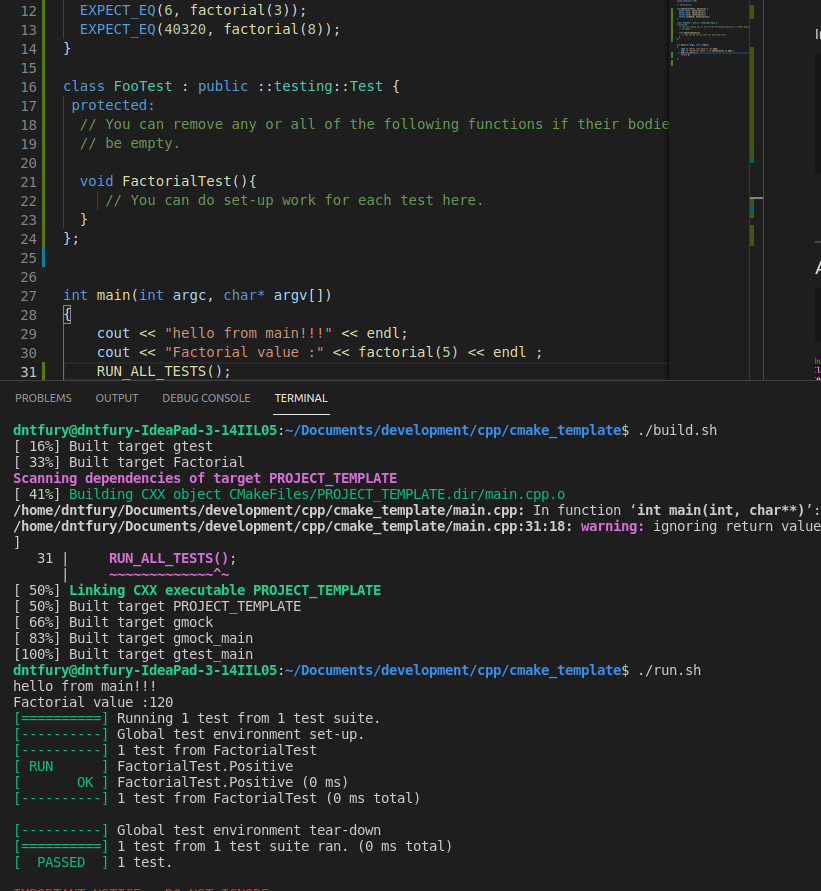
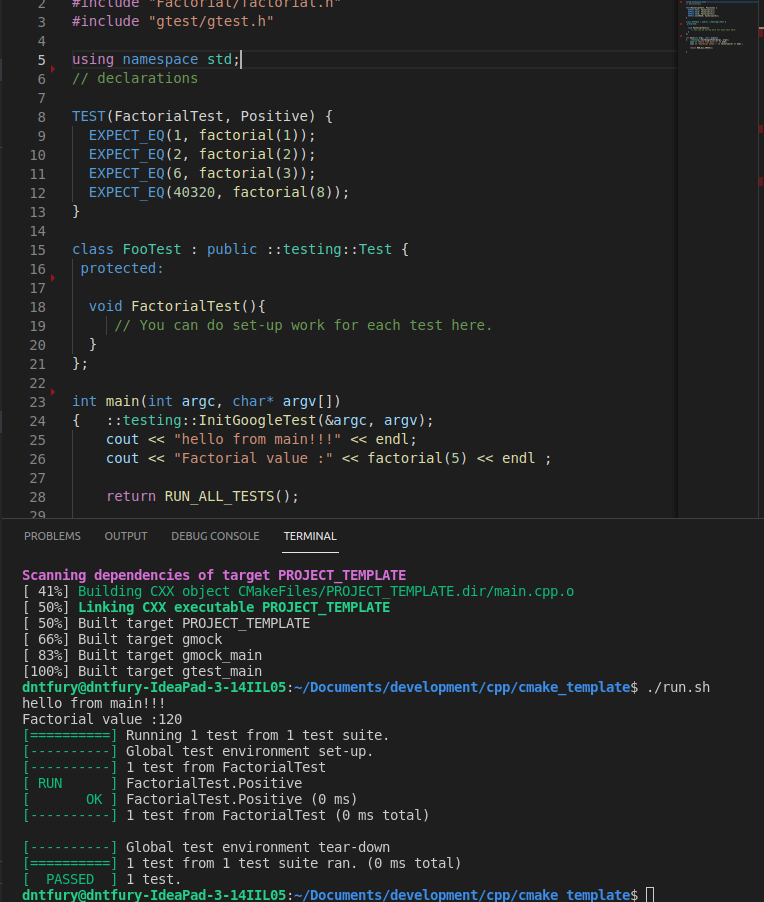
Updated README
Updated image SC5

diff --git a/main.cpp b/main.cpp
@@ -15,15 +15,12 @@ TEST(FactorialTest, Positive) {
 
 class FooTest : public ::testing::Test {
  protected:
-  // You can remove any or all of the following functions if their bodies would
-  // be empty.
 
   void FactorialTest(){
      // You can do set-up work for each test here.
   }
 };
   
-
 int main(int argc, char* argv[])
 {   ::testing::InitGoogleTest(&argc, argv);
     cout << "hello from main!!!" << endl;
